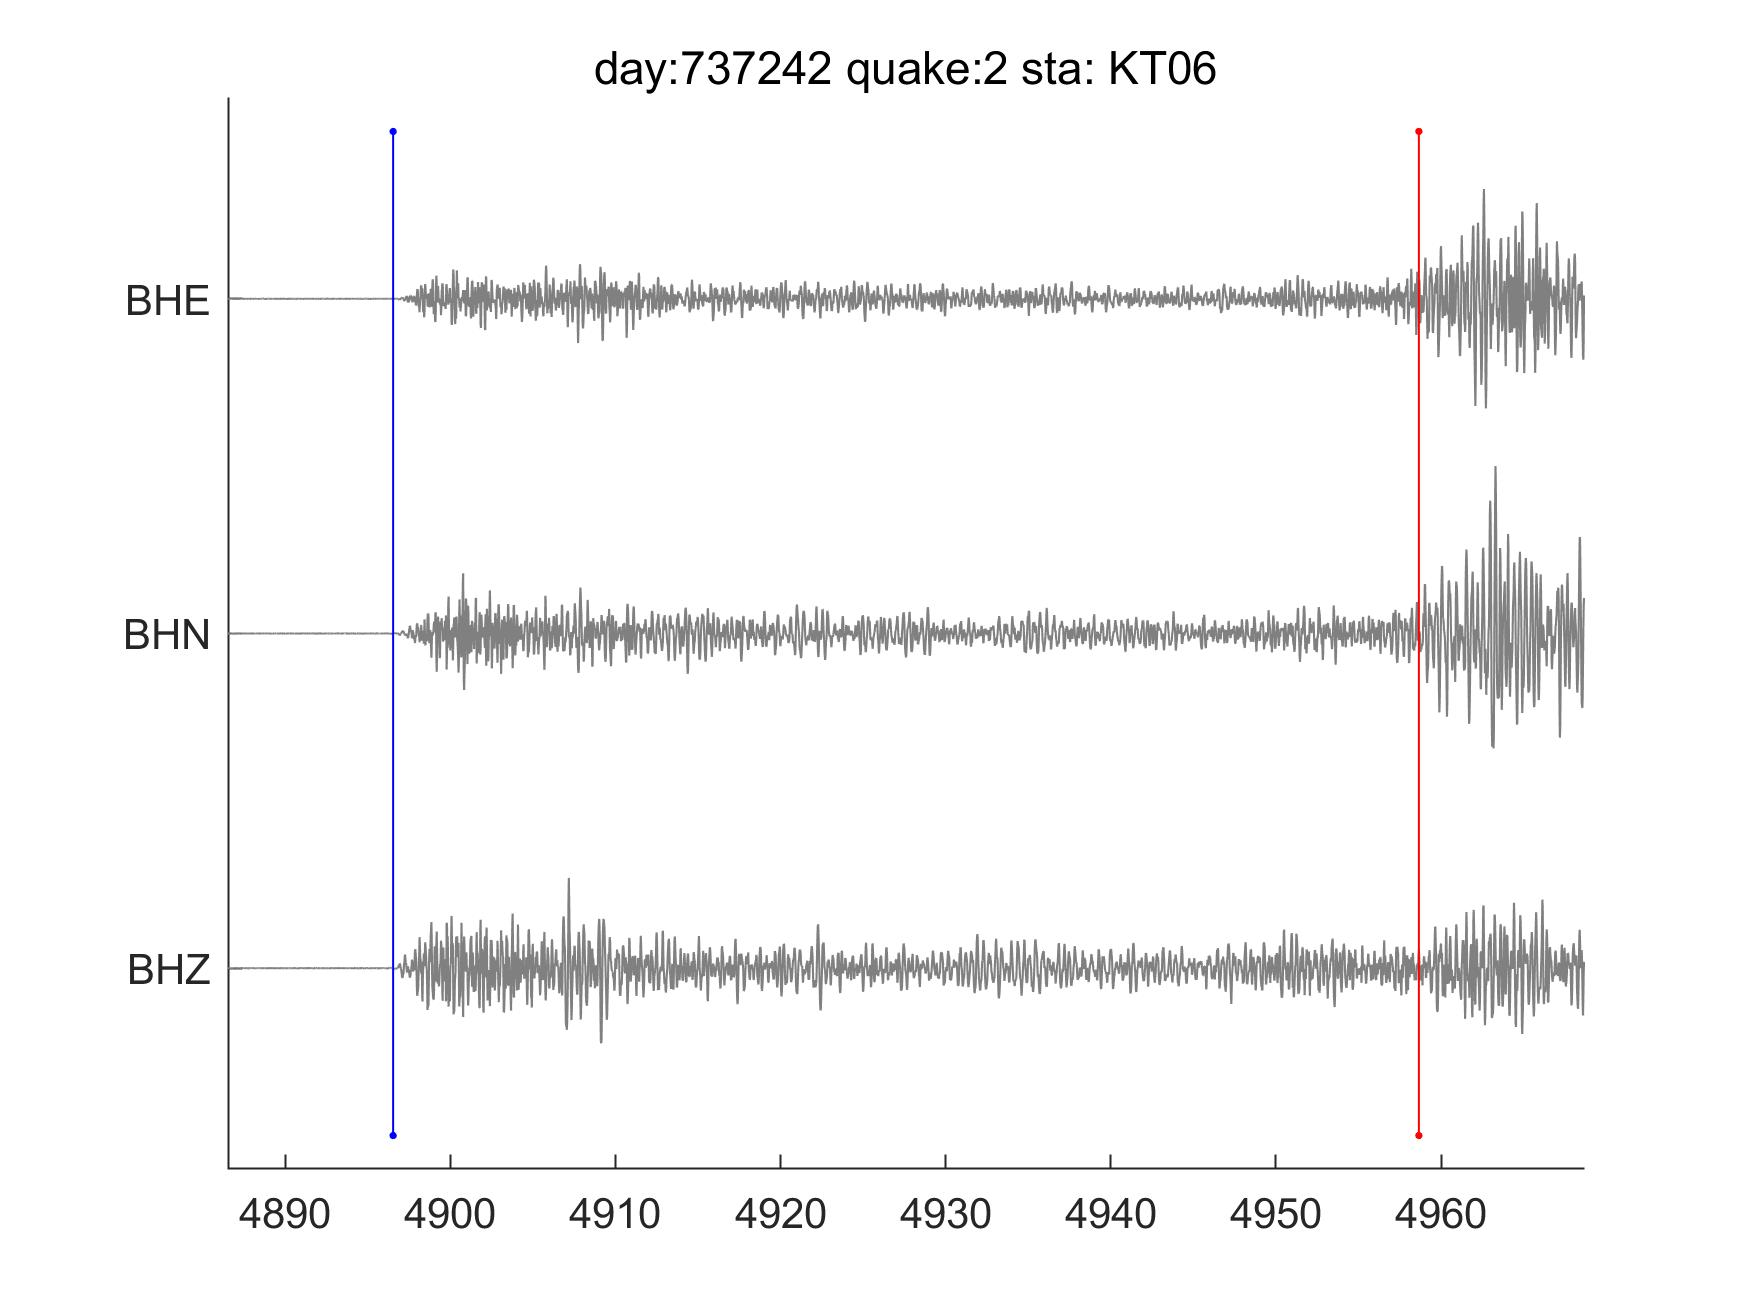
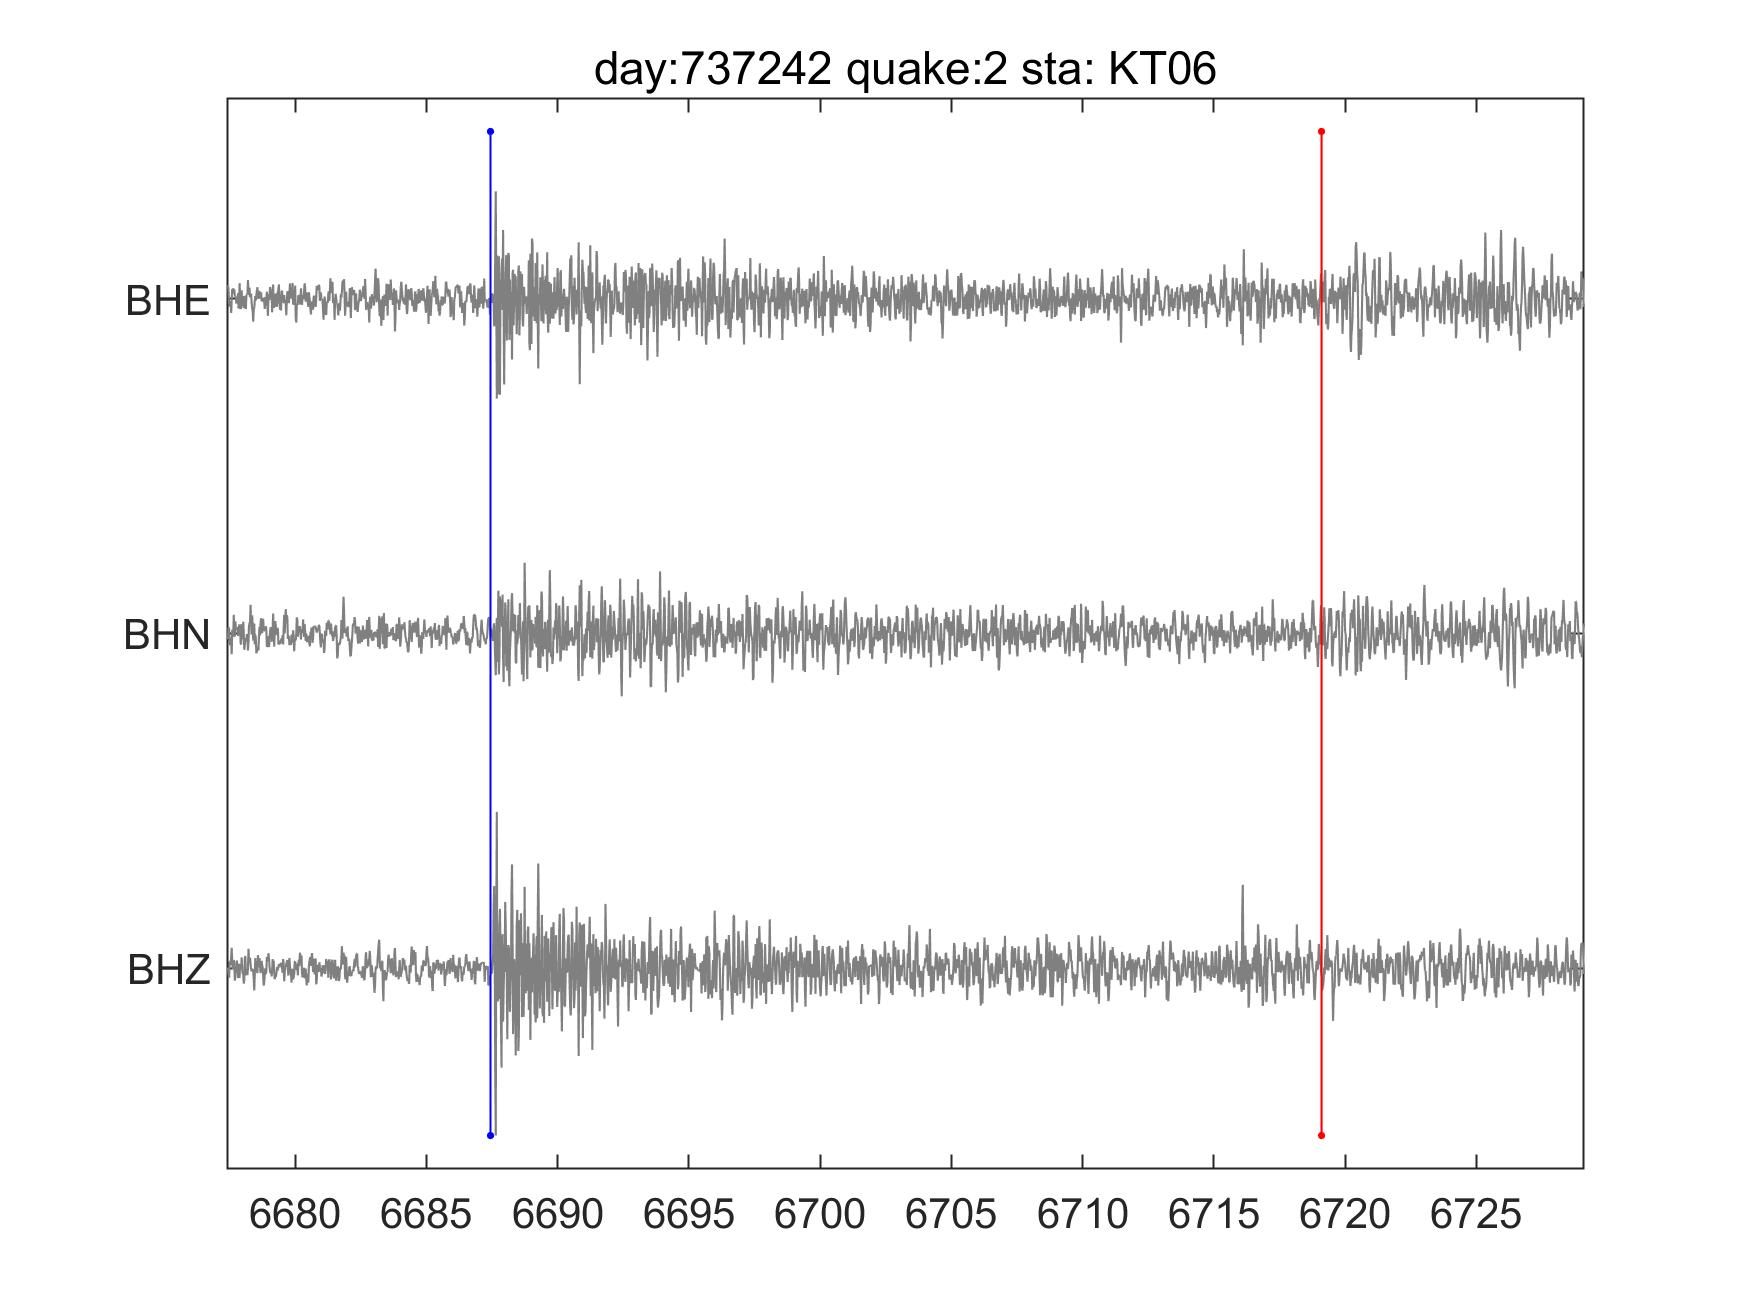
fixBugs

diff --git a/setPara.m b/setPara.m
@@ -43,7 +43,7 @@ dd1=0.1;dd2=0.01;dd3=0.01;
 % nR: the subarea's latitude range= (maxLatitude-minLatitude)/(nR-1)
 % mR: the subarea's longitude range= (maxLongitude-minLongitude)/(nR-1)
 % the total number of subareas: nR*mR
-R=[55,65,-152,-138];nR=15;mR=15;
+R=[53,68,-155,-135];nR=15;mR=15;
 % dTimeE for travel time calculate error (in associating different stations' results) 
 % if the travel time is longer or shorter than the estimated range within dTimeE, 
 % it also be taken into consideration

diff --git a/tool/plotAndOutput/plotPhase.m b/tool/plotAndOutput/plotPhase.m
@@ -53,6 +53,7 @@ for i=1:length(quake)
         title(sprintf('day:%d quake:%d sta: %s',tmpDay,i,staLst(j).name));
         fprintf('day:%d quake:%d sta: %s\n',tmpDay,i,staLst(j).name);
         figName=sprintf('%dquake%d_%s.jpg',tmpDay,i,staLst(j).name);
+        box on
         print(gcf,[figureDir,figName],'-djpeg','-r300');
     end
 end
